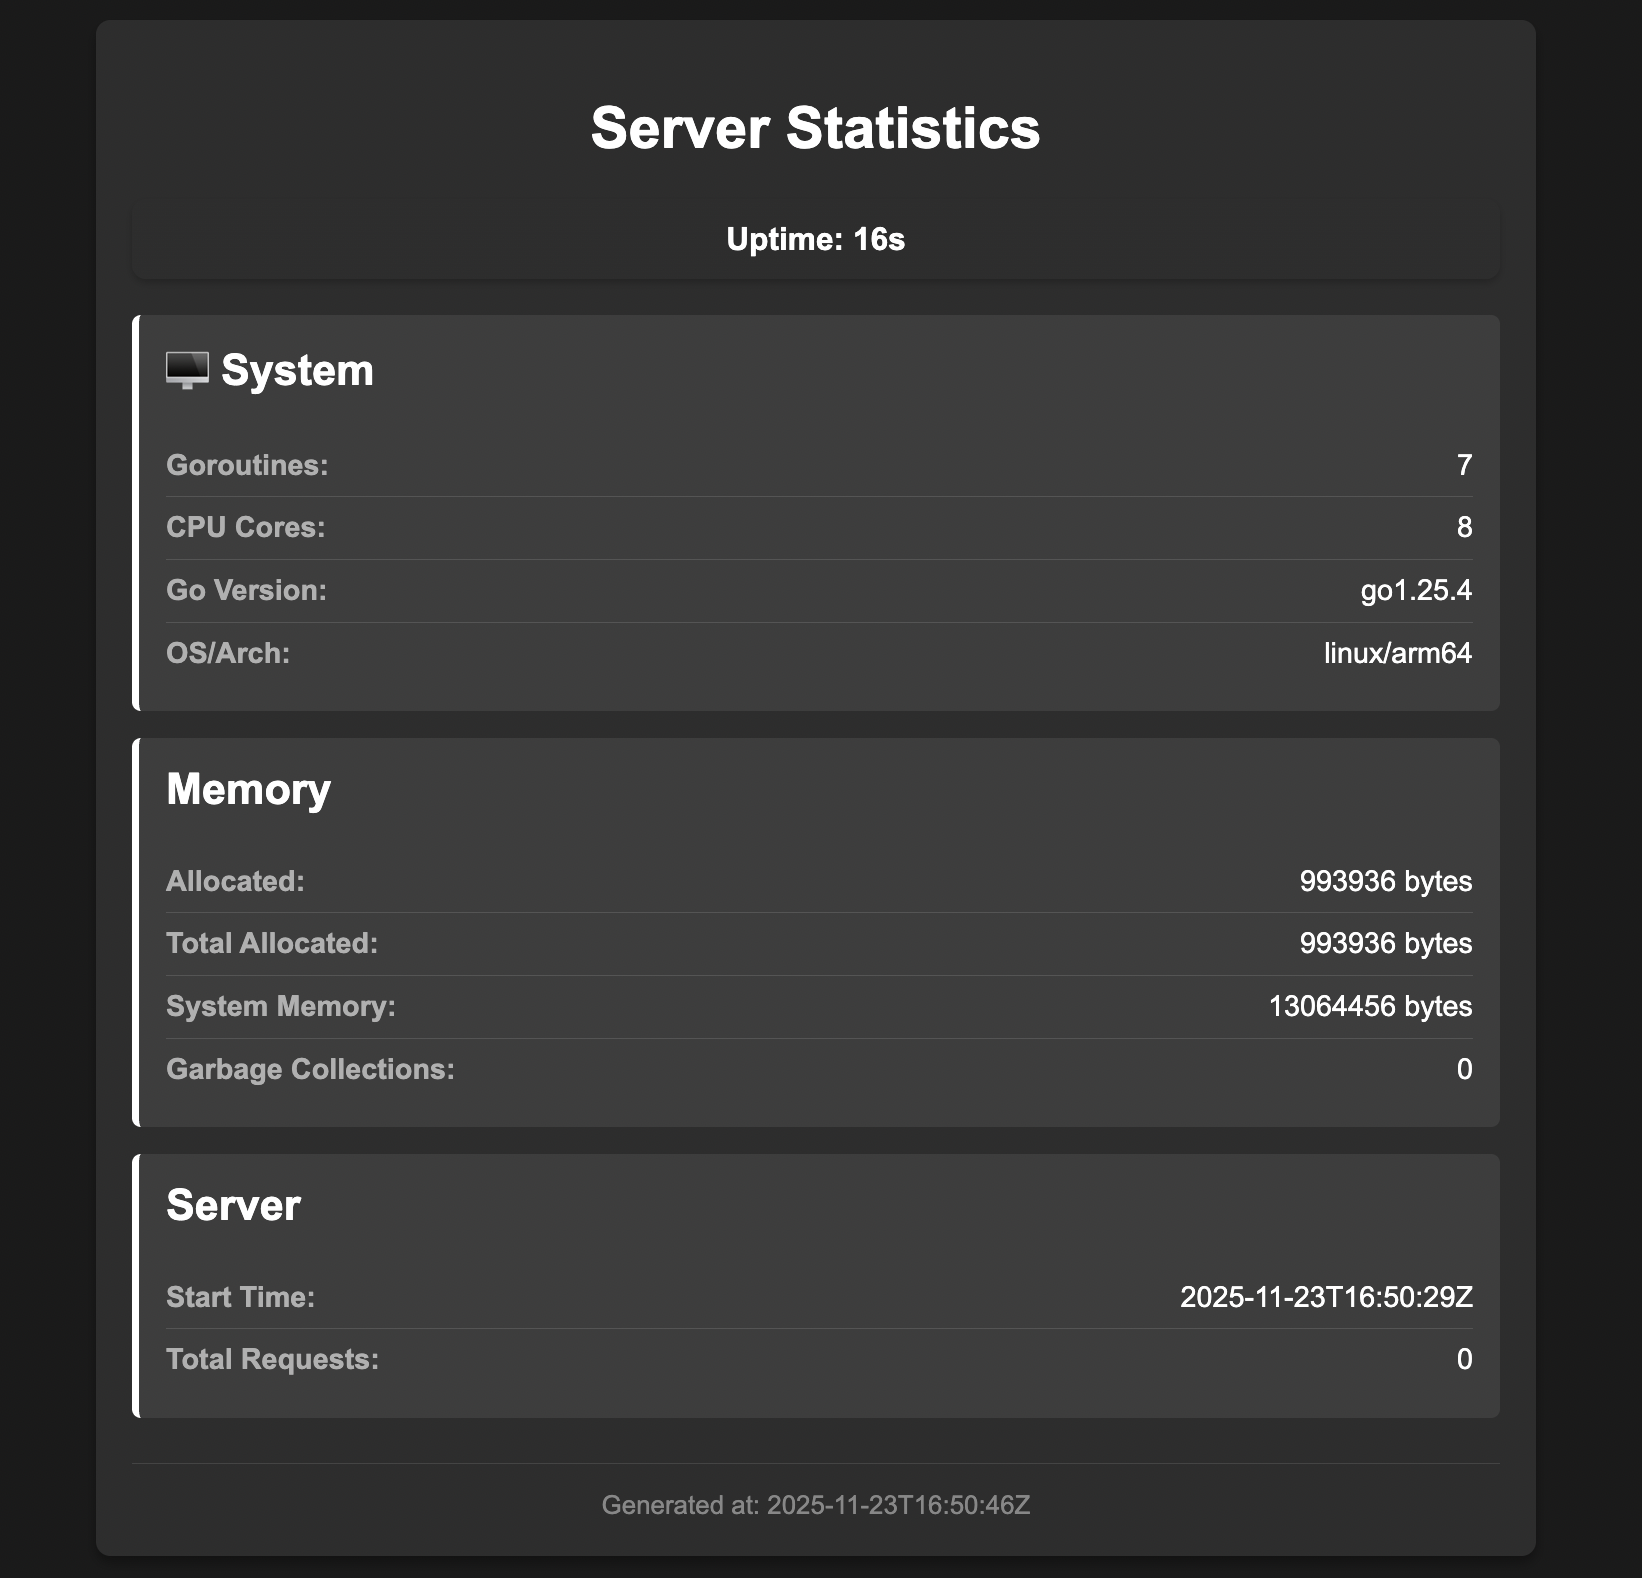
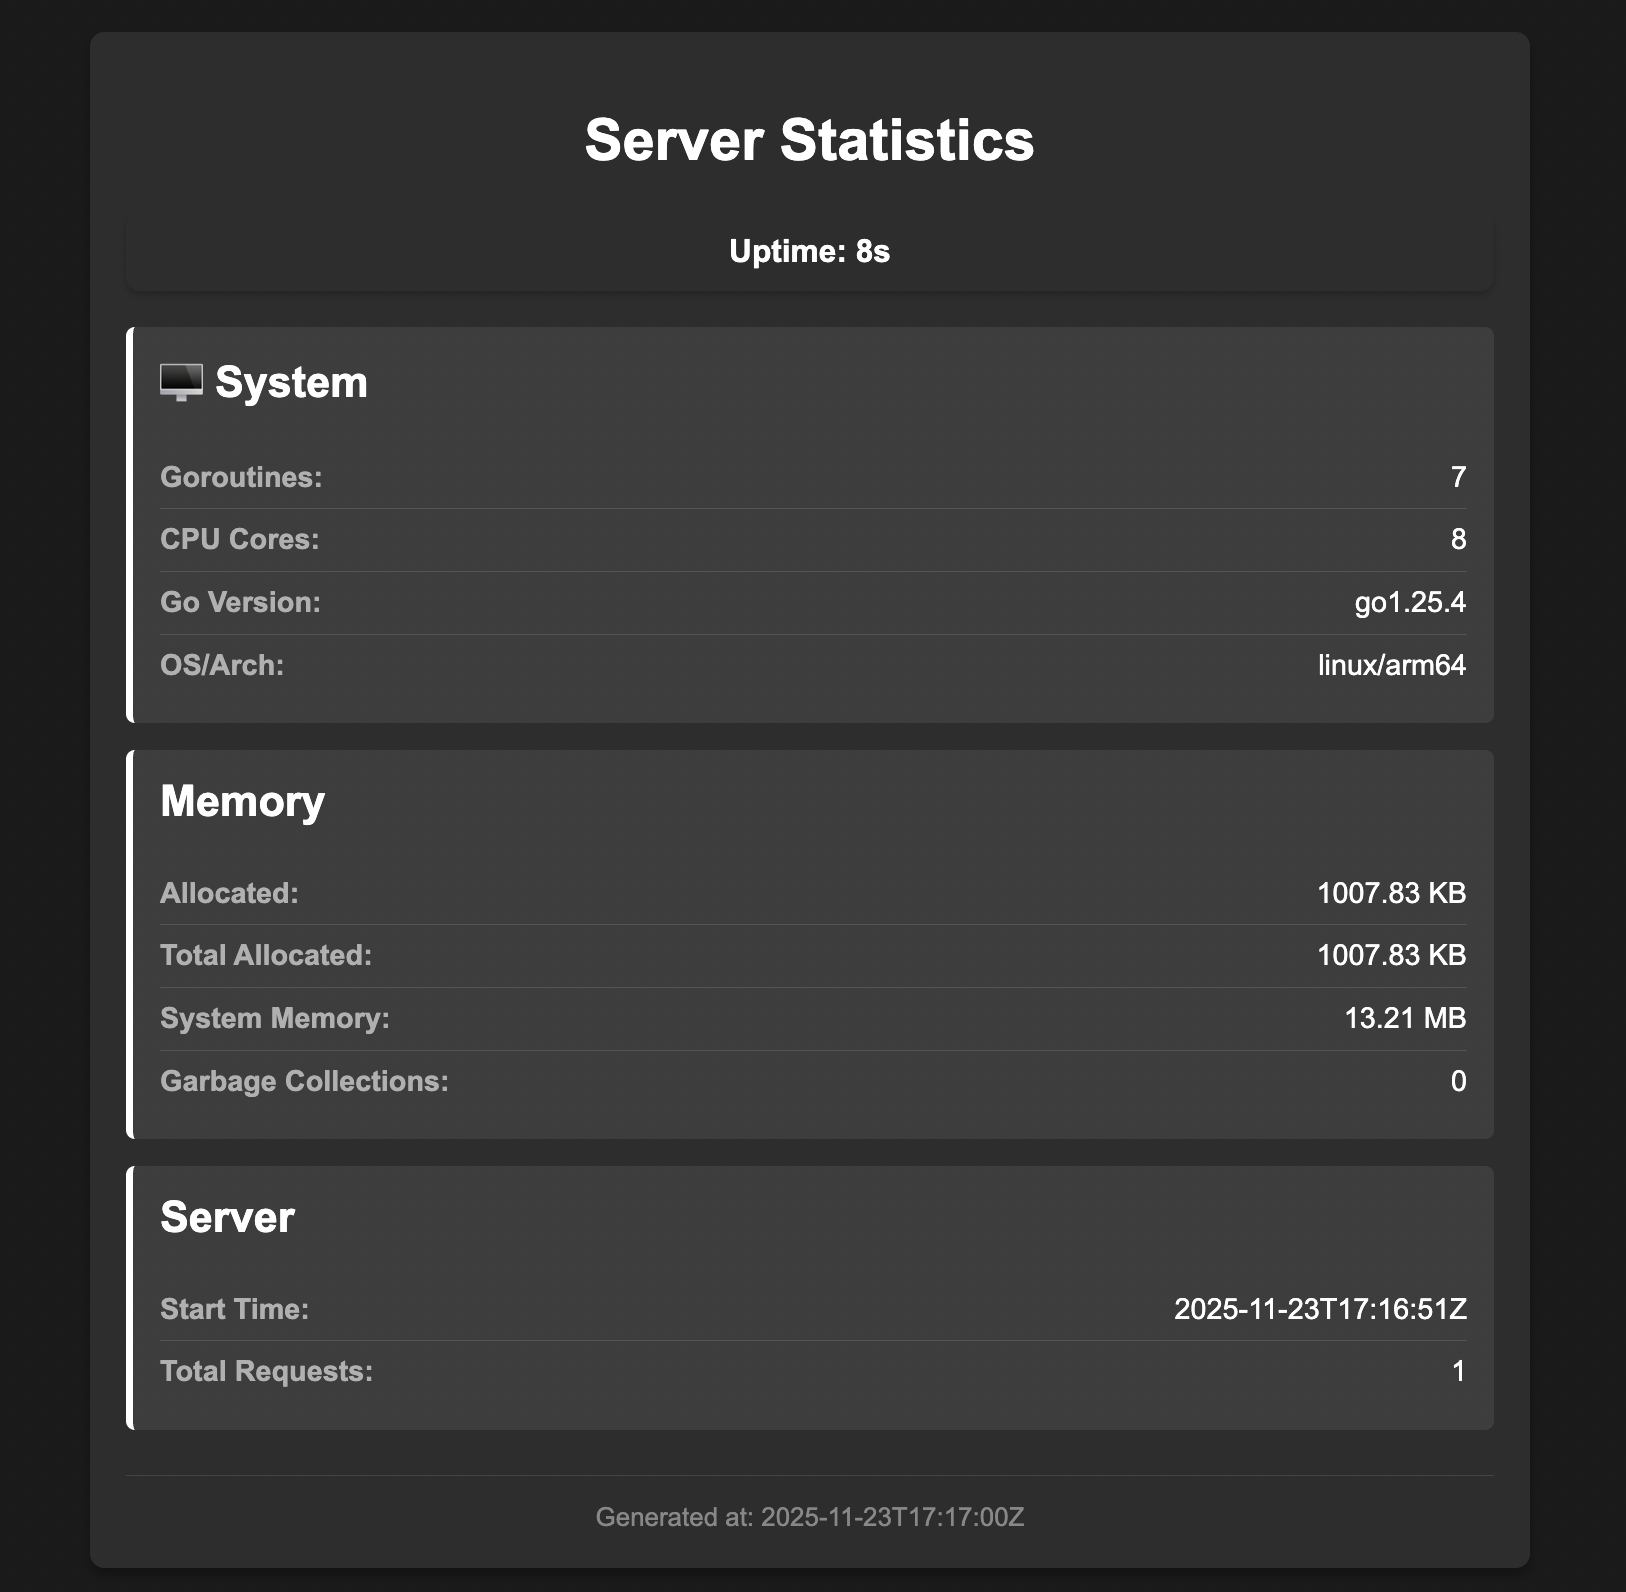
Changed the dimension in html

diff --git a/static/stats.html b/static/stats.html
@@ -139,15 +139,15 @@
             <h2>Memory</h2>
             <div class="stat-item">
                 <span class="stat-label">Allocated:</span>
-                <span class="stat-value">{{.Memory.Alloc}} bytes</span>
+                <span class="stat-value">{{.Memory.Alloc | formatBytes}}</span>
             </div>
             <div class="stat-item">
                 <span class="stat-label">Total Allocated:</span>
-                <span class="stat-value">{{.Memory.TotalAlloc}} bytes</span>
+                <span class="stat-value">{{.Memory.TotalAlloc| formatBytes}} </span>
             </div>
             <div class="stat-item">
                 <span class="stat-label">System Memory:</span>
-                <span class="stat-value">{{.Memory.Sys}} bytes</span>
+                <span class="stat-value">{{.Memory.Sys| formatBytes}}</span>
             </div>
             <div class="stat-item">
                 <span class="stat-label">Garbage Collections:</span>

diff --git a/internal/handlers/stats_handler.go b/internal/handlers/stats_handler.go
@@ -54,3 +54,22 @@ func formatDurationPart(value int, unit string) string {
 	}
 	return strconv.Itoa(value) + unit + " "
 }
+
+func formatBytes(bytes uint64) string {
+	const (
+		KB = 1024
+		MB = KB * 1024
+		GB = MB * 1024
+	)
+
+	switch {
+	case bytes >= GB:
+		return strconv.FormatFloat(float64(bytes)/float64(GB), 'f', 2, 64) + " GB"
+	case bytes >= MB:
+		return strconv.FormatFloat(float64(bytes)/float64(MB), 'f', 2, 64) + " MB"
+	case bytes >= KB:
+		return strconv.FormatFloat(float64(bytes)/float64(KB), 'f', 2, 64) + " KB"
+	default:
+		return strconv.FormatUint(bytes, 10) + " B"
+	}
+}

diff --git a/internal/handlers/handlers.go b/internal/handlers/handlers.go
@@ -23,7 +23,11 @@ func NewHandler(
 	PullRequestManag services.PullRequestManager,
 	statService *services.StatService,
 ) (*Handler, error) {
-	tmpl, err := template.ParseFiles("static/stats.html")
+	tmpl := template.New("stats.html").Funcs(template.FuncMap{
+		"formatBytes": formatBytes,
+	})
+
+	tmpl, err := tmpl.ParseFiles("static/stats.html")
 	if err != nil {
 		slog.Error("Server forced to shutdown", "error", err)
 		os.Exit(1)
